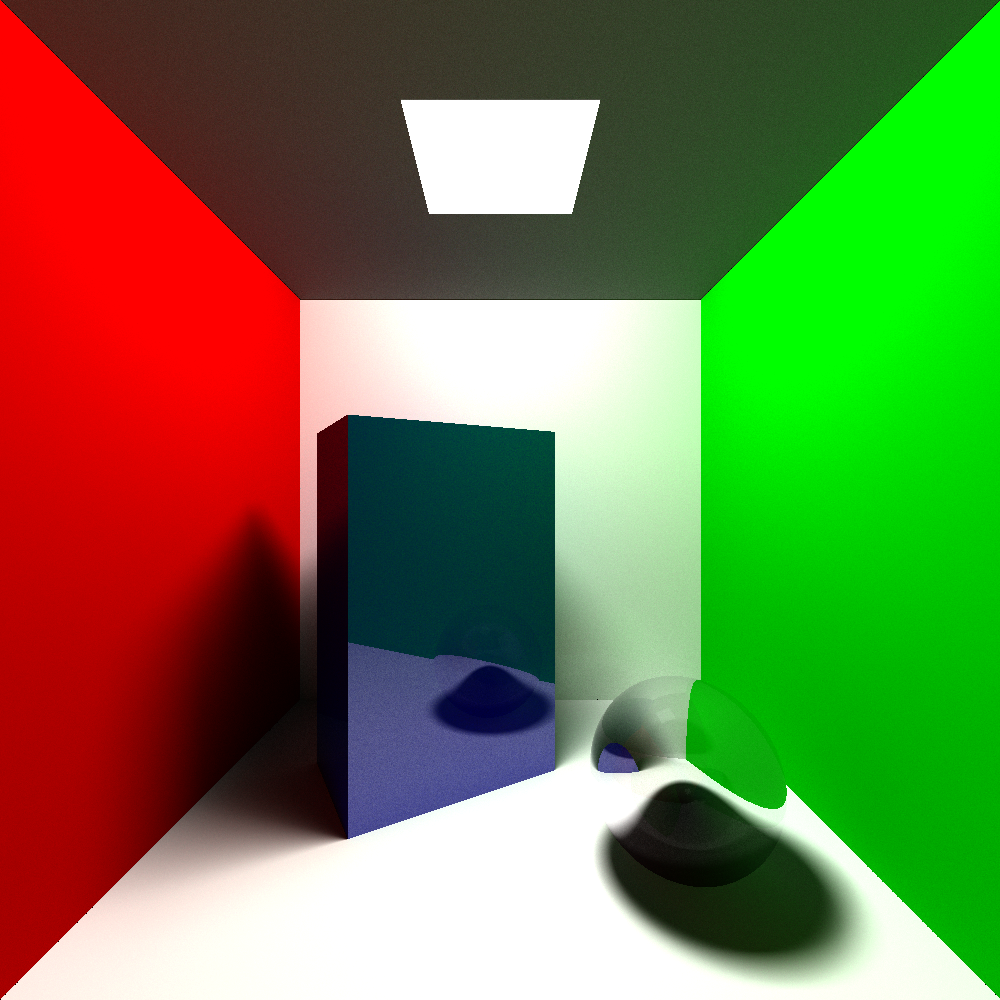
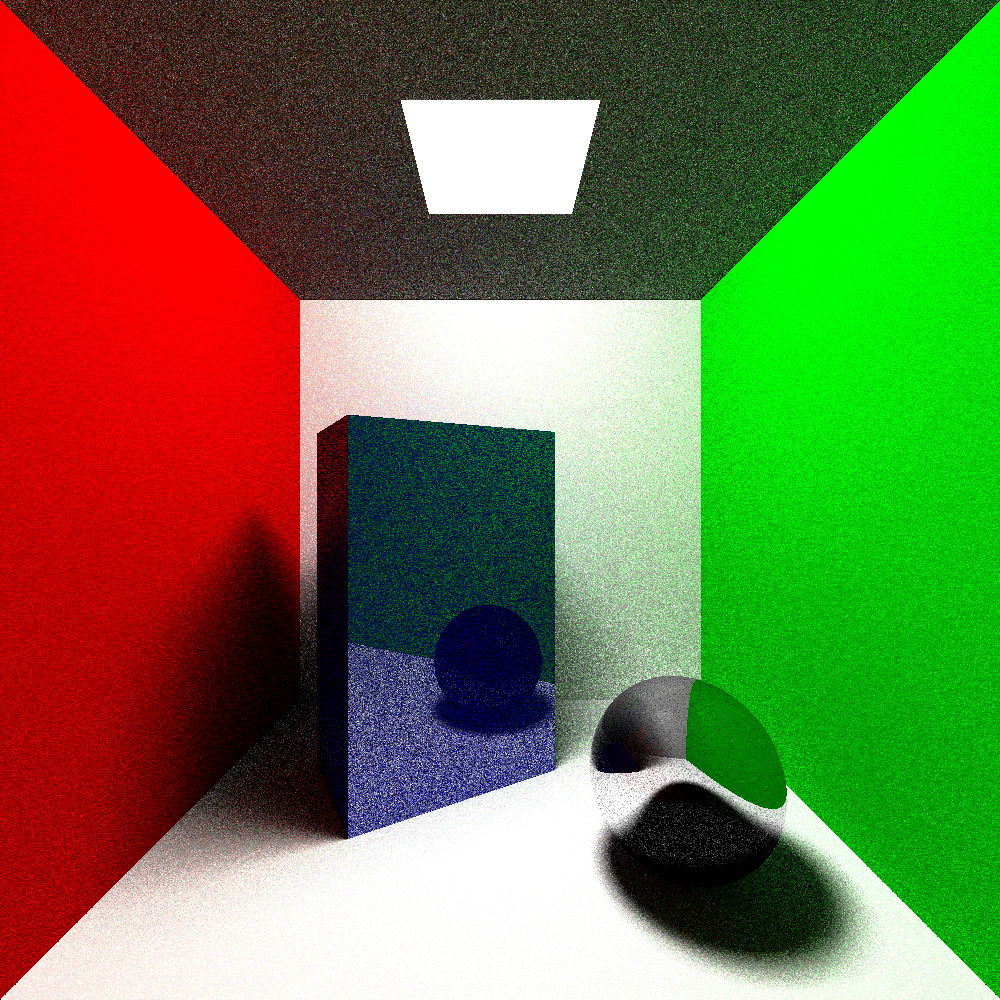
Reduce RT parameters and replace AreaLights by Lights an array of objects

diff --git a/Project/Improved-Ray-Tracer/src/Scene.cpp b/Project/Improved-Ray-Tracer/src/Scene.cpp
@@ -18,8 +18,8 @@
 #include <tbb/mutex.h>
 #endif
 
-#define PATHS_PER_PIXEL 10
-#define MAX_BOUNCE 3
+#define PATHS_PER_PIXEL 5
+#define MAX_BOUNCE 2
 #define AMBIENT_REFRACTION_INDEX (1.0)
 
 Image Scene::render()
@@ -138,7 +138,7 @@ bool Scene::intersect(const Ray& _ray, Object_ptr& _object, vec3& _point, vec3& 
       }
     }
 
-    for (const auto &al: areaLights)
+    for (const auto &al: lights)
     {
       if (al->intersect(_ray, p, n, t))
       {
@@ -210,7 +210,7 @@ vec3 Scene::lighting(const vec3& _point, const vec3& _normal, const vec3& _view,
       vec3 direct_illumination = vec3(0.0);
 
       //////////////////////////////////////////////////////////////////////////////////////////////////////////////////
-      for (const auto &al: areaLights)
+      for (const auto &al: lights)
       {
         for (size_t i = 0; i < al->numberOfLights(); ++i)
         {
@@ -267,7 +267,7 @@ void Scene::read(const std::string &_filename)
     const std::map<std::string, std::function<void(void)>> entityParser = {
         {"camera",     [&]() { ifs >> camera; }},
         {"background", [&]() { ifs >> background; }},
-        {"areaLight",  [&]() { areaLights.emplace_back(new AreaLight(ifs)); }},
+        {"areaLight",  [&]() { lights.emplace_back(new AreaLight(ifs)); }},
         {"plane",      [&]() { objects.emplace_back(new Plane(ifs)); }},
         {"sphere",     [&]() { objects.emplace_back(new Sphere(ifs)); }},
         {"cylinder",   [&]() { objects.emplace_back(new Cylinder(ifs)); }},

diff --git a/Project/Improved-Ray-Tracer/src/Scene.h b/Project/Improved-Ray-Tracer/src/Scene.h
@@ -57,7 +57,7 @@ private:
     Camera camera;
 
     std::vector<std::unique_ptr<Object>> objects;
-    std::vector<std::unique_ptr<AreaLight>> areaLights;
+    std::vector<std::unique_ptr<Object>> lights;
 
     vec3 background = vec3(0, 0, 0);
 };

diff --git a/Project/Improved-Ray-Tracer/src/AreaLight.h b/Project/Improved-Ray-Tracer/src/AreaLight.h
@@ -35,8 +35,8 @@ public:
     y_size = block_side * y_parts;
 
     x_axis    = vec3(1,0,0);
-    y_axis    = vec3(0,0,1);
     direction = vec3(0,1,0);
+    y_axis    = vec3(0,0,1);
 
     top_left  = center;
     vec3 temp = x_size/2 * x_axis;
